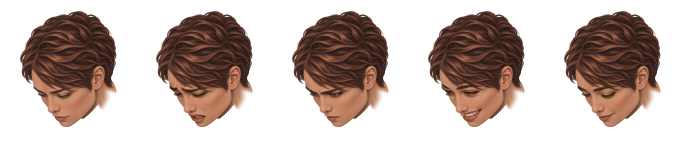
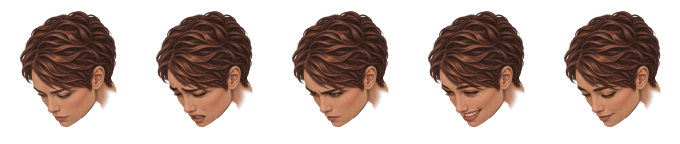
Add SN7L4D and keep prisoner jawlines clear of outfit fabric

diff --git a/DB/Documentation/06-Tooling/ThreeQuarterCharacterCodexPrompt.md b/DB/Documentation/06-Tooling/ThreeQuarterCharacterCodexPrompt.md
@@ -52,13 +52,15 @@ W8 style sheet. Draw the same person with head bowed deeply down-left, crown vis
 Match camera, foreshortening, skull scale and placement at the collar and raised
 shoulder. The near ear sits above and right of the near eye. The bridge partly hides
 the far eye. The nose tip is left of the chin. Preserve the full near cheekbone,
-jaw angle and rounded chin. Paint a short continuous patch of upper throat down to
-the Adam’s apple, with a soft shadow below the chin. Let the patch overlap exposed
-body skin. Keep nape locks attached and skin behind the ear clean. Trace this
+jaw angle and rounded chin. Trace the visible chin-to-cheek contour against the garment.
+Where the jaw overlaps cloth, end the cutout exactly on that anatomical contour:
+all pixels outside its antialiased edge must be transparent. Keep a crisp painted edge
+on the face side. Upper throat may connect only over exposed body skin shared by all
+three outfits. Never paint neck skin or a cast shadow on the garment. Keep nape locks attached and skin behind the ear clean. Trace this
 character’s own silhouette. Leave collar, sleeve and shoulder on the body layer.
 ```
 
-Сверь обе головы по носу, скулам, подбородку, уху, линии роста волос и приметам. По исходному рисунку пленного проследи скулу до угла челюсти, шею под подбородком и пряди за ухом. Зарегистрируй голову по черепу, уху, подбородку и верхнему срезу шеи. На светлом и тёмном фоне проверь собственный непрерывный контур, затем примерь его на три тела с `skinTone`. Тень заканчивается на открытой коже. У левого на экране плеча виден естественный переход в рукав. Ступенька под челюстью, прямая срезанная скула, прорези в волосах или отдельные пиксели на затылке требуют исправления нейтрального слоя. Сохрани принятый полный холст как `prisoner-neutral-fit.png`. Присваивать голове альфу чужого `portraitAlpha`, вычитать из неё силуэт тела или достраивать шею растяжением крайнего пикселя запрещено.
+Сверь обе головы по носу, скулам, подбородку, уху, линии роста волос и приметам. По исходному рисунку пленного проследи скулу до угла челюсти, шею под подбородком и пряди за ухом. Зарегистрируй голову по черепу, уху, подбородку и верхнему срезу шеи. На светлом и тёмном фоне проверь собственный непрерывный контур, затем примерь его на три тела с `skinTone`. Разметь на зарегистрированном исходном neutral собственную линию подбородок–скула. Примерь её на GREEN, GRAY и IVORY. Там, где под этой линией хотя бы один костюм показывает ткань, доведи прозрачность точно до контура лица. Сохрани естественное сглаживание в граничном пикселе и ясный рисунок со стороны щеки. Снаружи края альфа должна быть 0. Короткий переход шеи разрешён только там, где все три костюма показывают открытую кожу. Край у ткани не растушёвывай. До обработки альфы разметь на полном холсте маску L `prisoner-jaw-clear.png`: белым отметь зону сразу за сглаженным краем под челюстью над тканью, включая место возможного выступа шеи. Сверь разметку с неизменённым исходником, исключи реальные пряди и обязательное перекрытие верхнего среза тела. Не выводи контрольную маску из готового альфа-канала. Для всех пяти эмоций используй одну разметку. У левого на экране плеча виден естественный переход в рукав. Ступенька под челюстью, прямая срезанная скула, прорези в волосах или отдельные пиксели на затылке требуют исправления нейтрального слоя. Сохрани принятый полный холст как `prisoner-neutral-fit.png`. Присваивать голове альфу чужого `portraitAlpha`, вычитать из неё силуэт тела или достраивать шею растяжением крайнего пикселя запрещено.
 
 ## Четыре изменения мимики на каждую позу
 
@@ -82,7 +84,7 @@ Pleasure: relaxed brows, half-closed lids, soft closed smile.
 Убирай фон до уменьшения. Для исходника на цветной подложке проверь отсутствие цветной каймы на светлом и тёмном фоне. Уменьшай зарегистрированный рисунок фильтром BOX в premultiplied alpha, сохраняй PNG в **straight RGBA8 sRGB**. При работе с подложкой ×5 верни рисунок в её исходный прямоугольник. Оставь сглаживание внешнего контура и прозрачные поля. Волосы стойки доходят максимум до плеч. Если рисунок выходит за ячейку, исправь исходник до экспорта.
 
 - **Стойка.** Сохрани `layers/<emotion>/{back-hair,face,front-hair}.png` размером 282×747. Задние волосы проходят за телом, передние пряди лежат поверх. Лицо и собственная тень под челюстью заканчиваются внутри общей шеи. Ткань и ворот принадлежат телу. Импортёр собирает мастер на GREEN, учитывает перекрытие задних волос и включает в портрет кожу тела выше шва.
-- **Пленный.** Сохрани пять `prisoner-layers/<emotion>.png` размером 416×747. В слоях остаются голова, волосы и собственный участок верхней шеи. Непрозрачные пиксели головы закрывают верхний срез тела. Эталонная маска контролирует именно перекрытие среза. Остальной силуэт сверяется с собственным `prisoner-neutral-fit.png`.
+- **Пленный.** Сохрани пять `prisoner-layers/<emotion>.png` размером 416×747. В слоях остаются голова, волосы и участок верхней шеи только над общей открытой кожей тел. Непрозрачные пиксели головы закрывают верхний срез тела. Эталонная маска контролирует именно перекрытие среза. Остальной силуэт сверяется с собственным `prisoner-neutral-fit.png`.
 
 Для серии сначала собери комплект в рабочем каталоге кандидата. Команды ниже выполняй в одной сессии PowerShell из `Antropik`, подставив ID и выбранный по щеке тон. Импорт одного персонажа выполняй последовательно: `add_character.py` блокирует на время записи общие рабочие манифесты. Даже с `--portraits-dir` он обновляет `characters`, `work/provenance.json` и рабочие мастера. Папка кандидата — место назначения игровых файлов.
 
@@ -178,6 +180,8 @@ for outfit, rel in pr["outfits"].items():
     assert np.array_equal(read(template / rel, "RGBA", canvas)[seam], reference[seam]), outfit
 
 neutral = read(src / "prisoner-neutral-fit.png", "RGBA", canvas)
+jaw_clear = read(src / "prisoner-jaw-clear.png", "L", canvas) > 0
+assert jaw_clear[area].any() and not (jaw_clear & seam).any(), "jaw mask"
 cells = []
 for emotion in emotions:
     head = read(src / "prisoner-layers" / f"{emotion}.png", "RGBA", canvas)
@@ -185,6 +189,7 @@ for emotion in emotions:
     if emotion == "neutral":
         assert np.array_equal(head, neutral), "accepted neutral"
     assert (head[..., 3][seam] == 255).all(), (emotion, "prisoner neck")
+    assert not head[..., 3][jaw_clear].any(), (emotion, "neck over garment")
     cells.append(head[area])
 with TemporaryDirectory(dir=dst) as tmp:
     candidate = Path(tmp) / p["file"]
